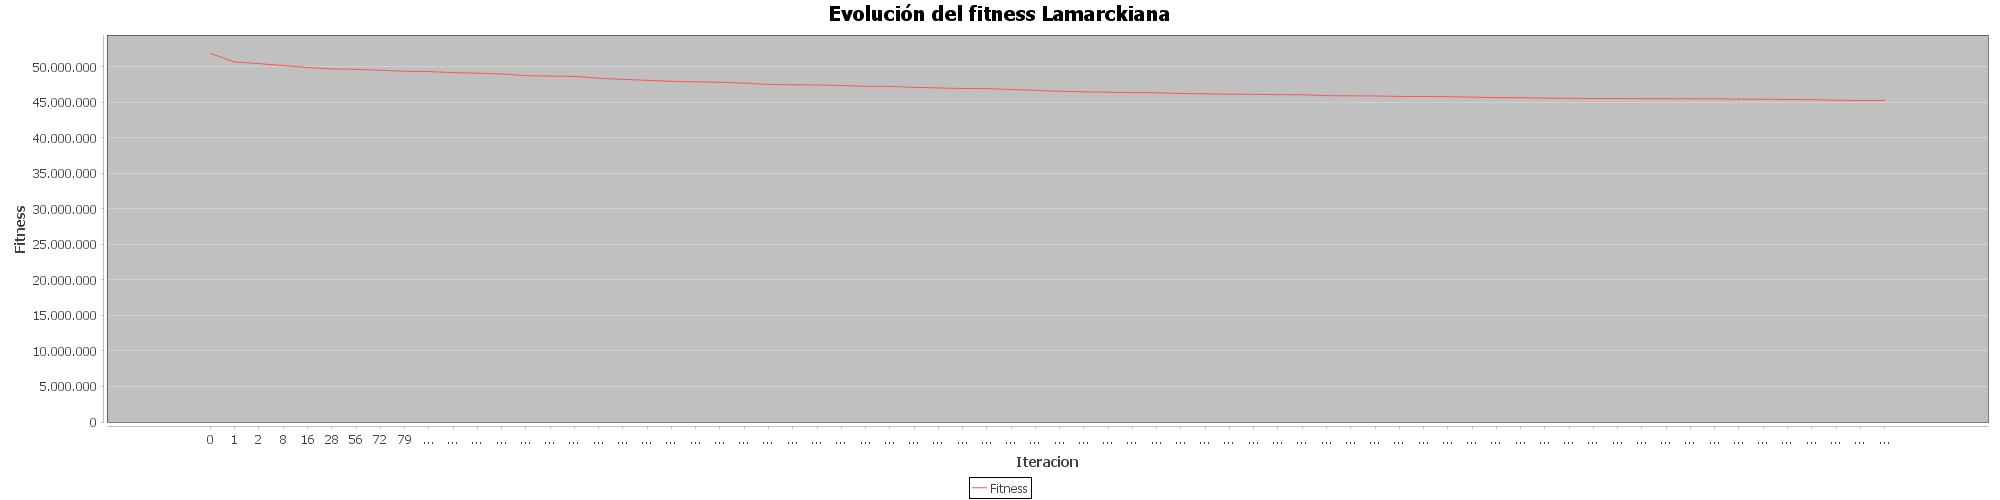
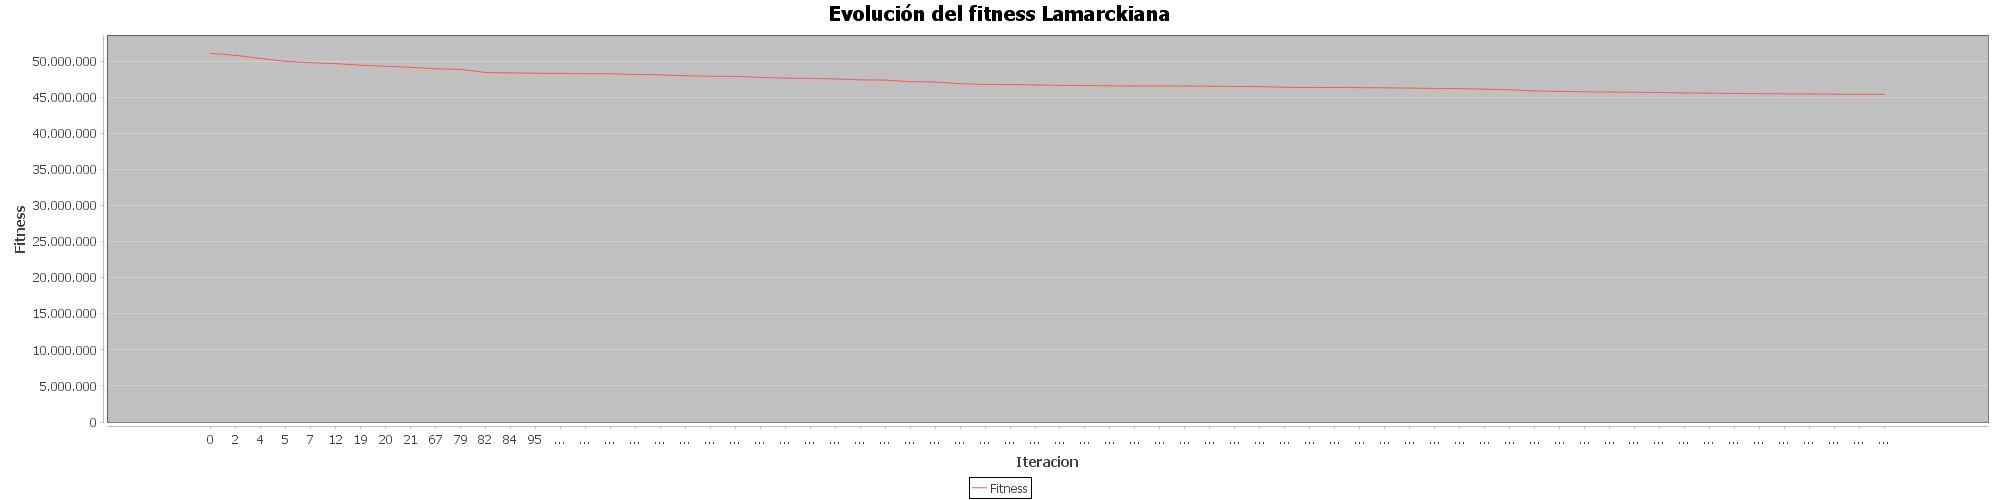
Mejora de eficiencia

diff --git a/QAP genetic algorithm/src/qap/genetic/algorithm/Individuo.java b/QAP genetic algorithm/src/qap/genetic/algorithm/Individuo.java
@@ -140,6 +140,49 @@ public class Individuo {
     }
 
     /**
+     * Calcula el cambio en el fitness del individuo
+     *
+     * @param i
+     * @param j
+     * @param flujos Matriz de flujos
+     * @param crom
+     * @param distancias Matriz de distancias
+     */
+    public void calcularCambioFitness(int i, int j, int crom[], int flujos[][], int distancias[][]) {
+        int aux1, aux2;
+        for (int z = 0; z < tam; z++) {
+            aux1 = crom[i];
+            aux2 = crom[z];
+            fitness -= flujos[i][z] * distancias[aux1][aux2];
+            aux1 = this.cromosoma[i];
+            aux2 = this.cromosoma[z];
+            fitness += flujos[i][z] * distancias[aux1][aux2];
+
+            aux1 = crom[j];
+            aux2 = crom[z];
+            fitness -= flujos[j][z] * distancias[aux1][aux2];
+            aux1 = this.cromosoma[j];
+            aux2 = this.cromosoma[z];
+            fitness += flujos[j][z] * distancias[aux1][aux2];
+
+            if (z != i && z != j) {
+                fitness -= flujos[z][i] * distancias[crom[z]][crom[i]];
+                aux1 = this.cromosoma[z];
+                aux2 = this.cromosoma[i];
+                fitness += flujos[z][i] * distancias[aux1][aux2];
+
+                fitness -= flujos[z][j] * distancias[crom[z]][crom[j]];
+                aux1 = this.cromosoma[z];
+                aux2 = this.cromosoma[j];
+                fitness += flujos[z][j] * distancias[aux1][aux2];
+            }
+        }
+        if (this.fitness < 44095032) {
+            System.out.println("Fitness " + this.getFitness());
+        }
+    }
+
+    /**
      * Optimiza con búsqueda local el individuo
      *
      * @param flujos Matriz de flujos
@@ -158,7 +201,8 @@ public class Individuo {
                 vAux = indiAux.getCromosoma()[i];
                 indiAux.getCromosoma()[i] = indiAux.getCromosoma()[j];
                 indiAux.getCromosoma()[j] = vAux;
-                indiAux.calcularFitness(flujos, distancias);
+                //indiAux.calcularFitness(flujos, distancias);
+                calcularCambioFitness(i, j, local.getCromosoma(), flujos, distancias);
                 if (indiAux.getFitness() < local.getFitness()) {
                     local = new Individuo(indiAux.tam, indiAux.cromosoma, indiAux.fitness);
                     mejorado = true;

diff --git a/QAP genetic algorithm/src/qap/genetic/algorithm/main.java b/QAP genetic algorithm/src/qap/genetic/algorithm/main.java
@@ -31,7 +31,7 @@ public class main {
         //Estandar
         Estandar est = new Estandar(n, flujos, distancias);
         est.ejecutar();
-        new Grafico(est.getGraficoMejora(), "estandar").setVisible(true);
+        new Grafico(est.getGraficoMejora(), "Estandar").setVisible(true);
 
         //Baldwin
         Baldwiniana bald = new Baldwiniana(n, flujos, distancias);
